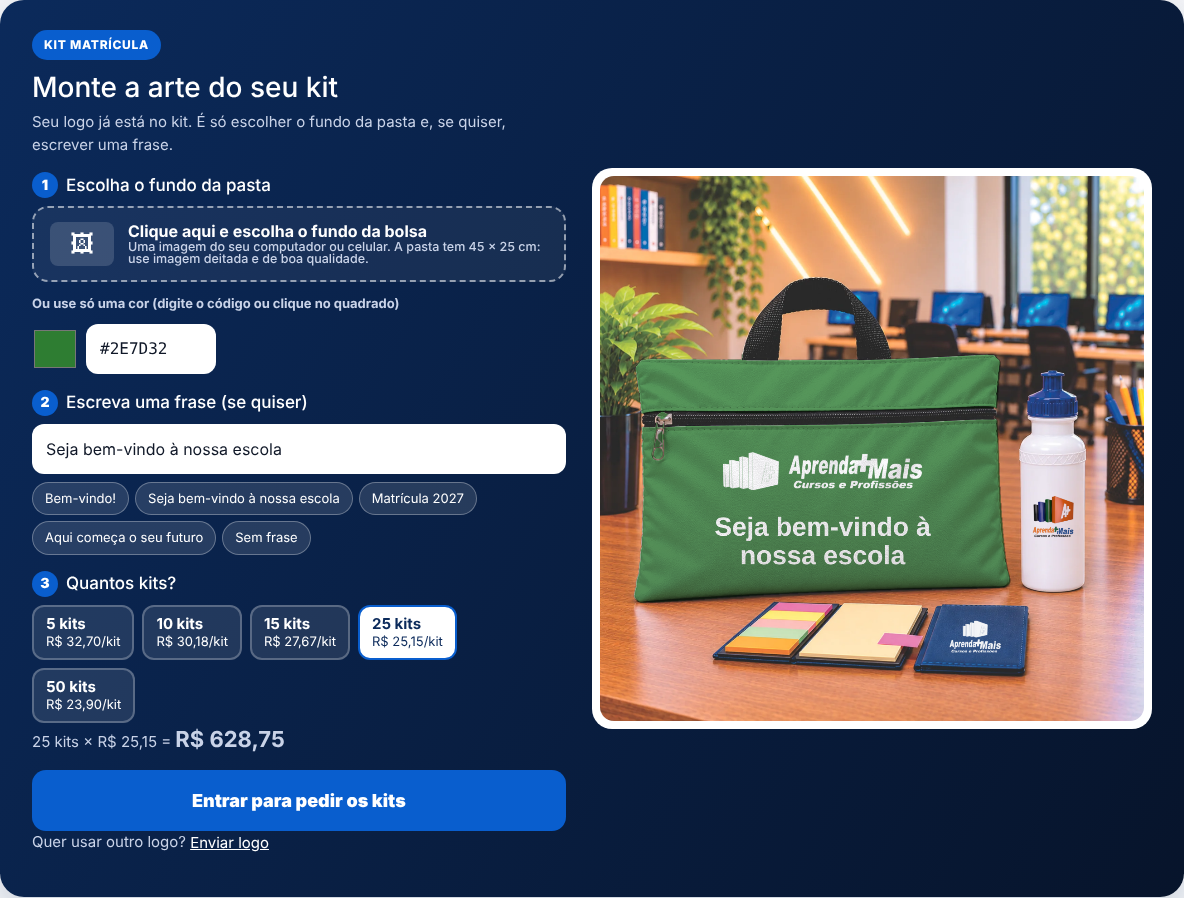
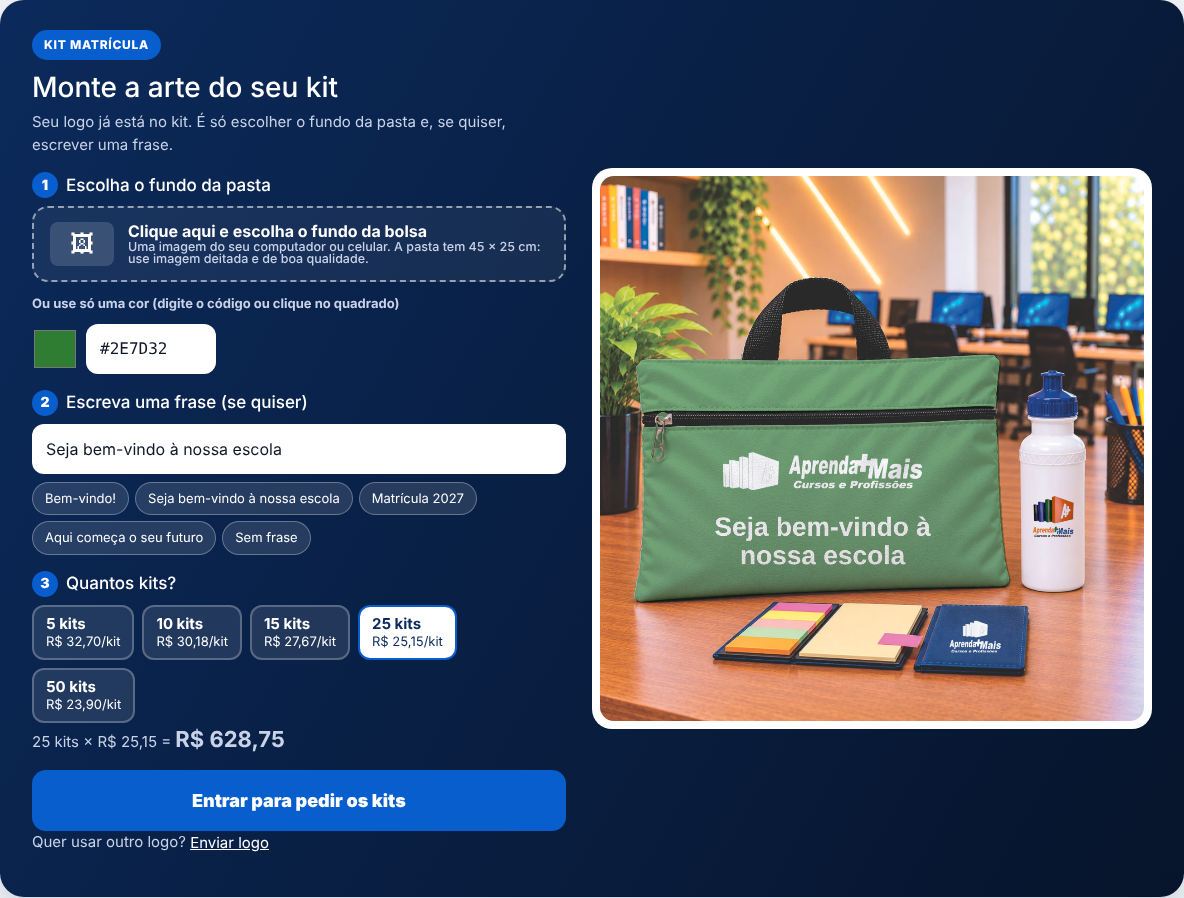
Kit Matrícula na vitrine: arte com 35% de transparência na prévia
Claude-Session: https://claude.ai/code/session_01Jsm55pWuFSzzKgw2LqHBXD

Changed region(s): [[0.5312, 0.3742, 0.875, 0.686]]

diff --git a/vitrine-nova/kit-editor/dckit-editor.js b/vitrine-nova/kit-editor/dckit-editor.js
@@ -108,7 +108,7 @@ return a;}
 function quebra(g,t,mw){var ws=t.split(/\s+/),ls=[],c='';ws.forEach(function(w){var p=c?c+' '+w:w;if(g.measureText(p).width>mw&&c){ls.push(c);c=w;}else{c=p;}});if(c){ls.push(c);}return ls;}
 var raf=0;function pinta(){if(!OUT||raf){return;}raf=requestAnimationFrame(function(){raf=0;desenha();});}
 function desenha(){var AD=arte(1).getContext('2d').getImageData(0,0,N,N).data,o=OUT.data,i,j,a,l;
-for(i=0;i<N*N;i++){j=i*4;a=CA[i]*0.80;if(a<0.004){o[j]=FD[j];o[j+1]=FD[j+1];o[j+2]=FD[j+2];o[j+3]=255;continue;}l=LUM[i]*1.03;
+for(i=0;i<N*N;i++){j=i*4;a=CA[i]*0.65;if(a<0.004){o[j]=FD[j];o[j+1]=FD[j+1];o[j+2]=FD[j+2];o[j+3]=255;continue;}l=LUM[i]*1.03;
 o[j]=Math.min(255,AD[j]*l)*a+FD[j]*(1-a);o[j+1]=Math.min(255,AD[j+1]*l)*a+FD[j+1]*(1-a);o[j+2]=Math.min(255,AD[j+2]*l)*a+FD[j+2]*(1-a);o[j+3]=255;}
 ctx.putImageData(OUT,0,0);
 if(LOGO){EX.forEach(function(E){if(!E.im){return;}var Lx=E.modo==='esc'?(LVE||LV||LOGO):(LV||LOGO),sil=E.modo==='esc'&&!LVE,w=E.w,h=E.h,oc=document.createElement('canvas');oc.width=w;oc.height=h;var g=oc.getContext('2d');g.imageSmoothingQuality='high';var r=Math.min(w*E.fit/Lx.w,h*E.fit/Lx.h),lw=Lx.w*r,lh=Lx.h*r;g.drawImage(Lx.cv,Lx.x,Lx.y,Lx.w,Lx.h,(w-lw)/2,(h-lh)/2,lw,lh);
